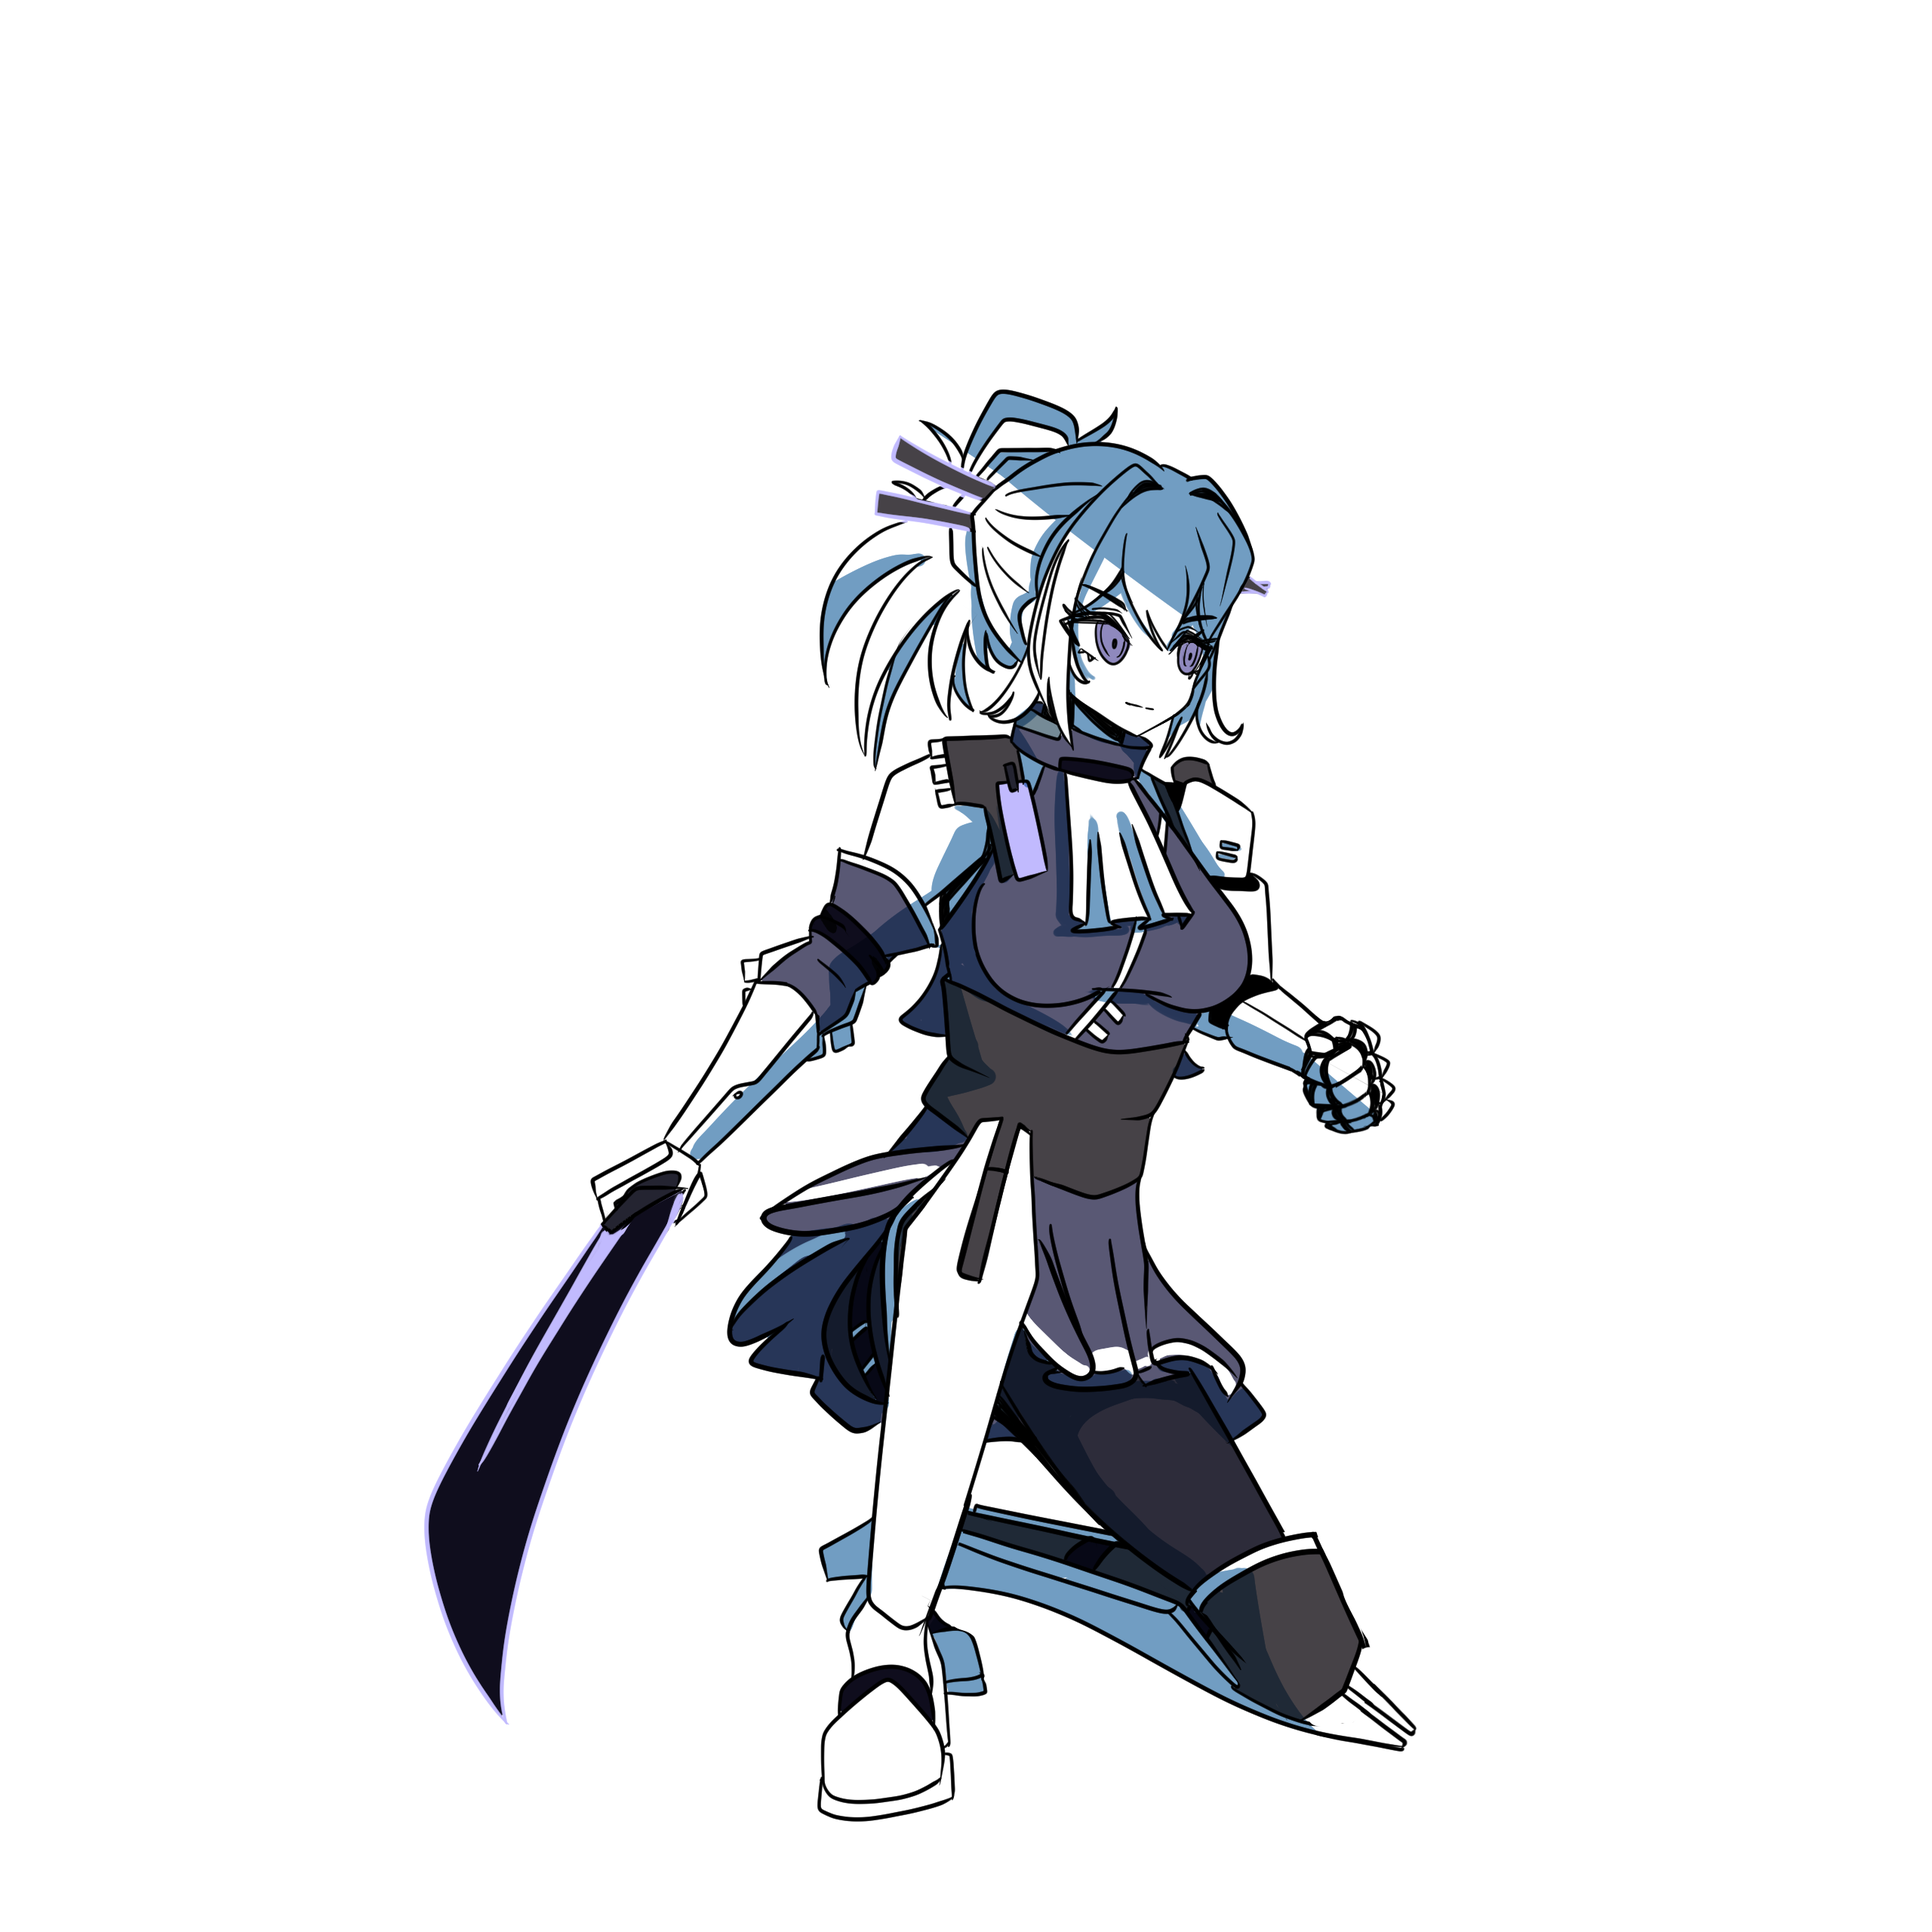
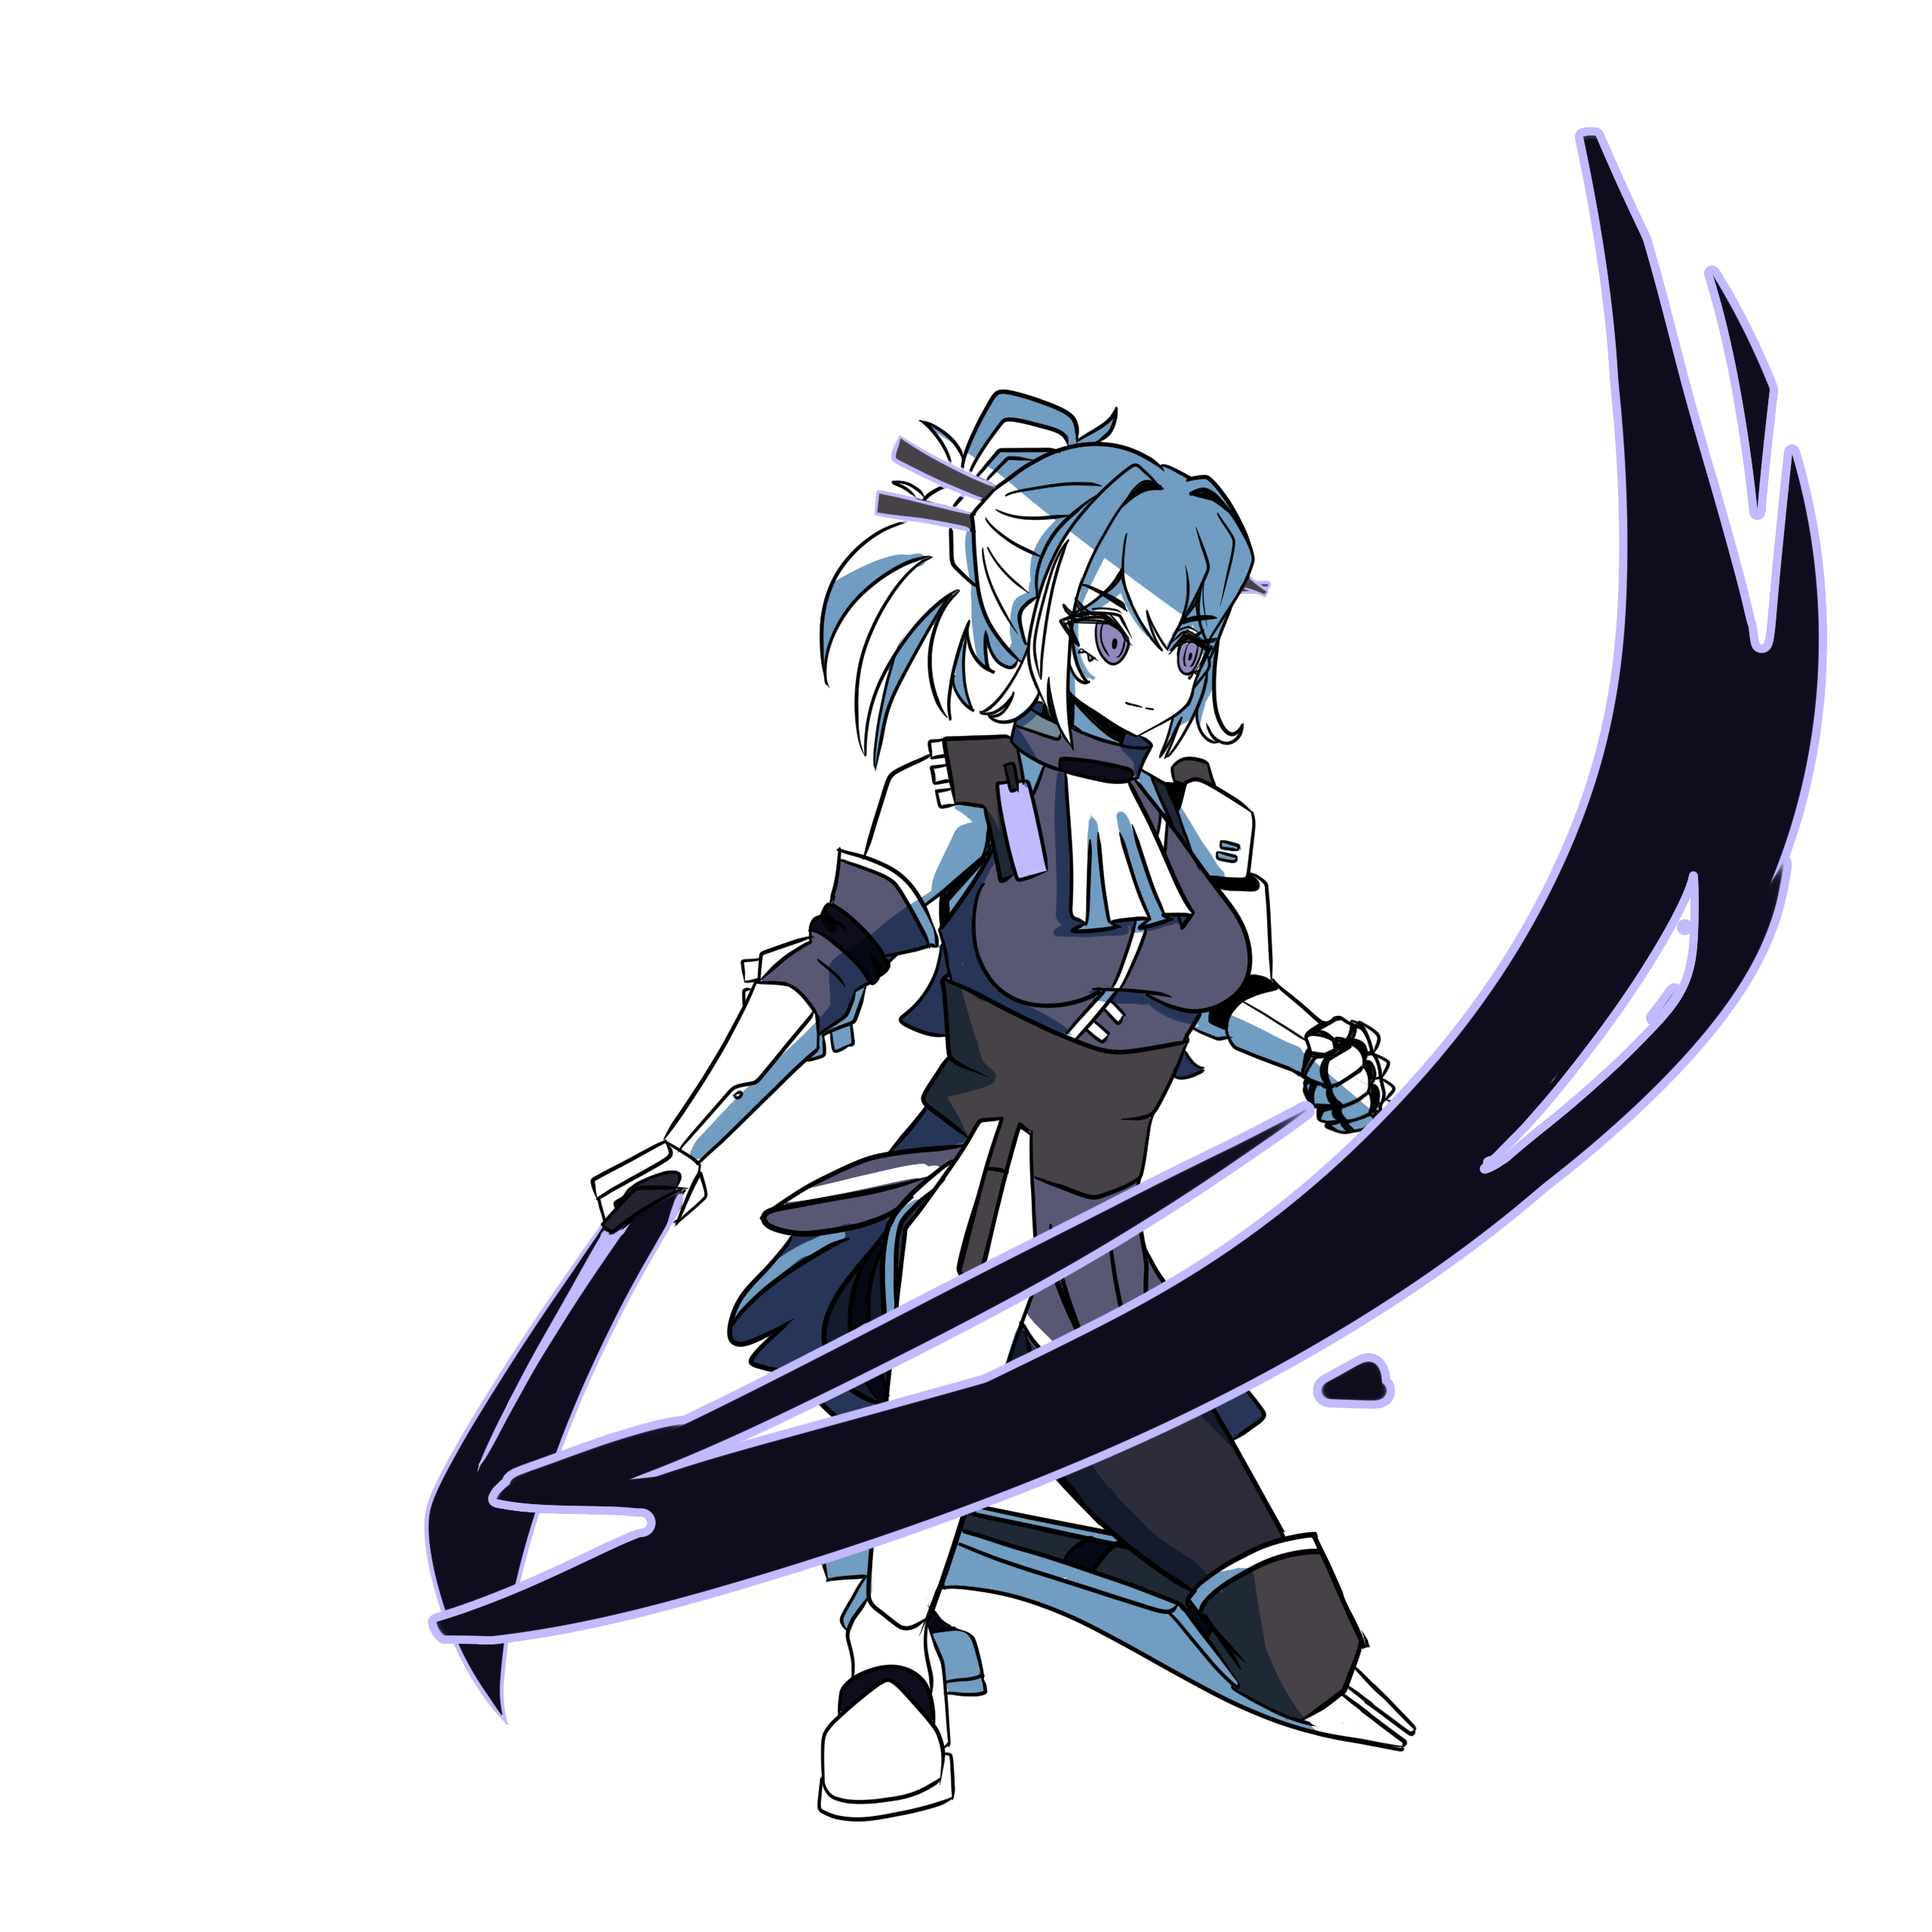
asset swap

Changed region(s): [[0.2188, 0.0625, 0.9688, 0.875]]

diff --git a/Code/Scenes/BaseCamp.cpp b/Code/Scenes/BaseCamp.cpp
@@ -300,7 +300,7 @@ void BaseCamp::Load()
 	enSystem->entities.push_back(std::move(buyButton));
 	enSystem->entities.push_back(std::move(shop));
 
-	meshSystem->CreateTexture("../../Assets/Images/GuanShiYinBack.png", "player_sprite");
+	meshSystem->CreateTexture("../../Assets/Images/SPRITE.png", "player_sprite");
 	auto e = std::make_unique<Entity>("Player");
 	pos = { 0.f, -200.f };
 	scale = { 100.f, 100.f };
